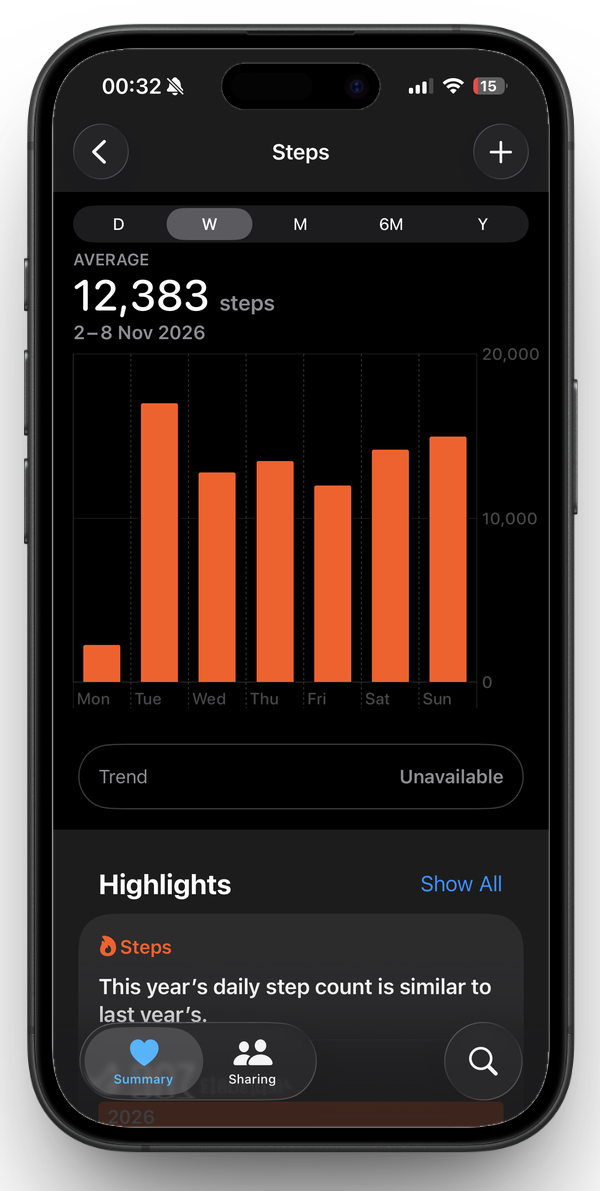
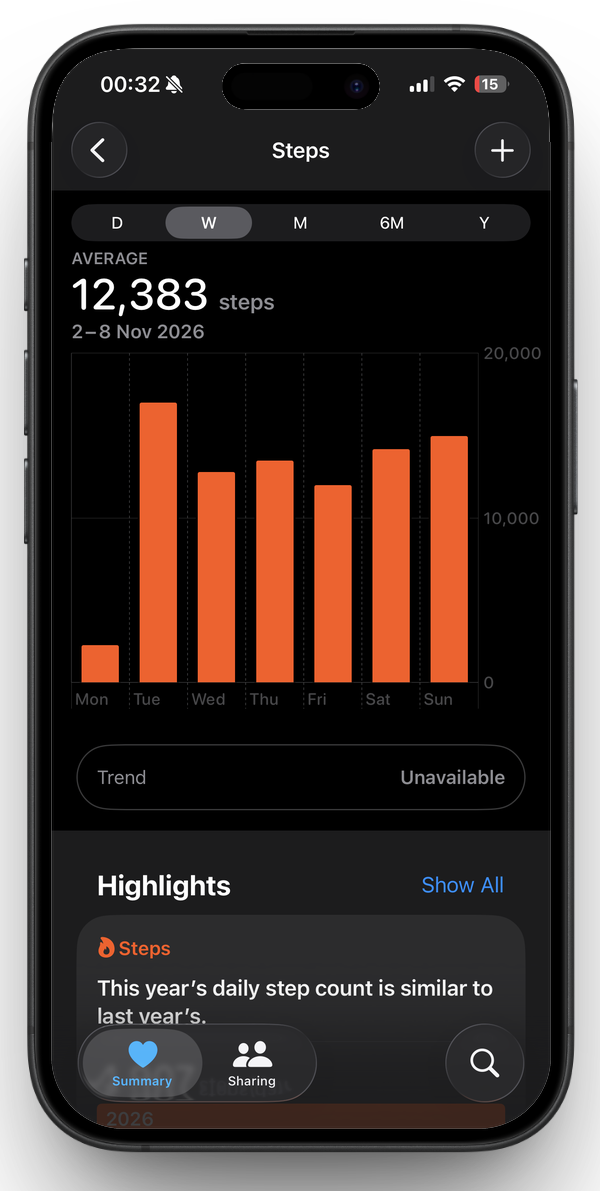
Smooth screen corners in step mockups
Claude-Session: https://claude.ai/code/session_01Hn283AW8nrZ5aCqoKre2sA

diff --git a/_src/build.py b/_src/build.py
@@ -313,7 +313,8 @@ for tp in topics:
 for r in refs:
     src = os.path.join(MEDIA, r) if r.startswith('edited/') else os.path.join(MEDIA, 'web', r)
     dst = os.path.join(OUT, 'media', r)
-    if os.path.exists(src) and (not os.path.exists(dst) or os.path.getsize(dst) != os.path.getsize(src)):
+    if os.path.exists(src) and (not os.path.exists(dst) or os.path.getsize(dst) != os.path.getsize(src)
+                                     or int(os.path.getmtime(dst)) != int(os.path.getmtime(src))):
         os.makedirs(os.path.dirname(dst), exist_ok=True)
         shutil.copy2(src, dst)
 
